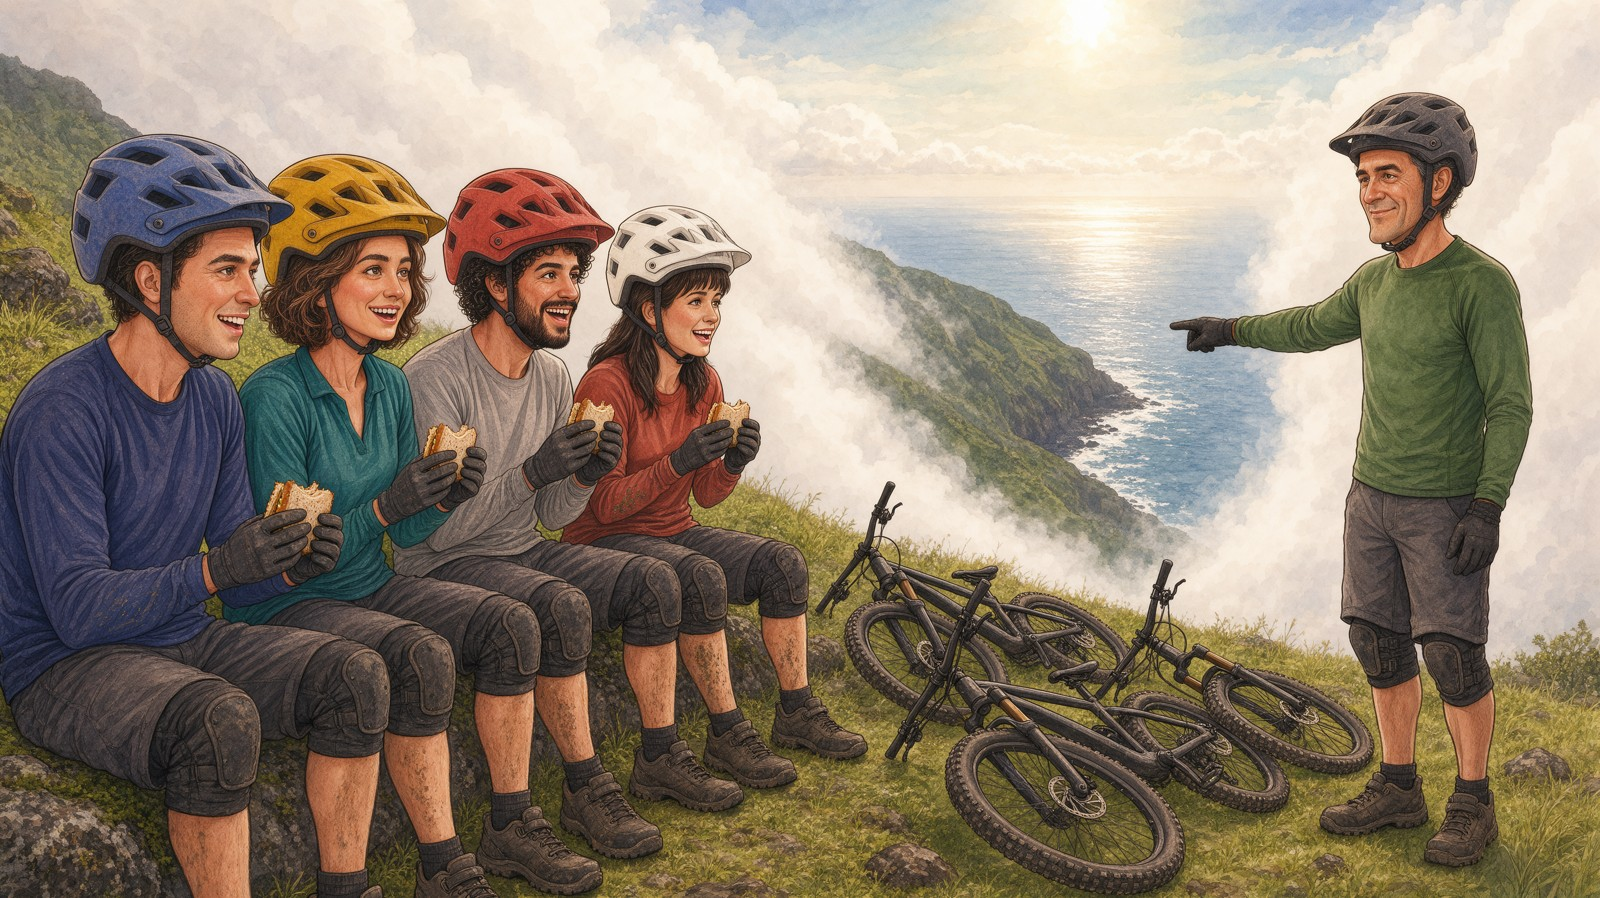
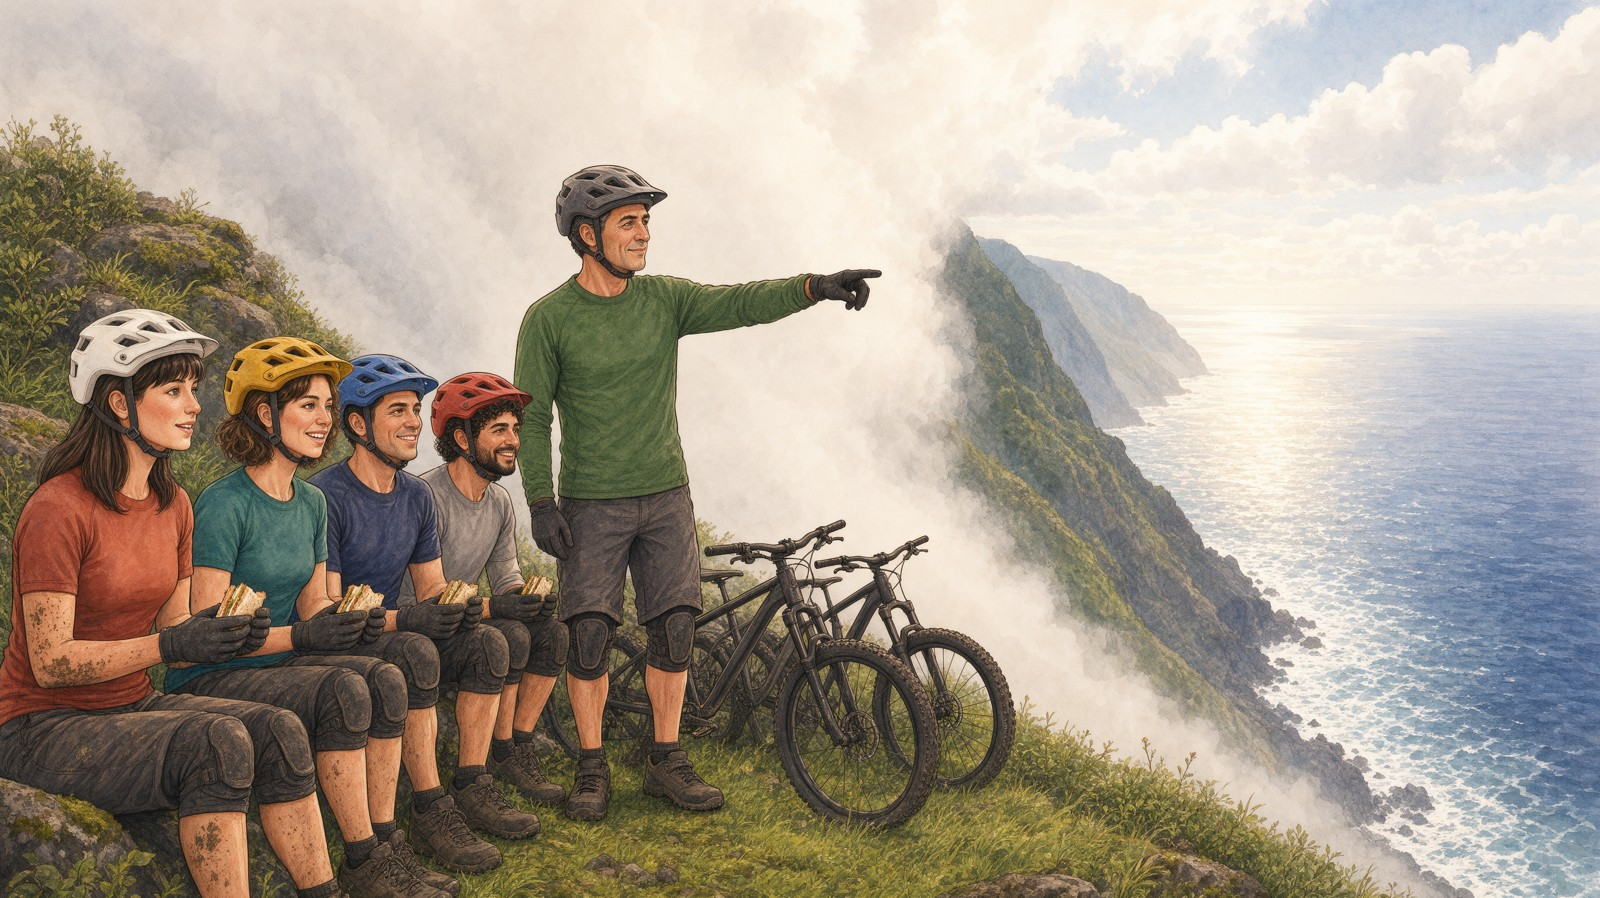
Book 20: slim helmet sheet; pages 2-7 repainted with normal-size helmets; helmet lessons in the illustrations skill
Claude-Session: https://claude.ai/code/session_01QETqfy7oCZmnPUVD333HTN

diff --git a/tools/b20/prompts20.py b/tools/b20/prompts20.py
@@ -26,15 +26,22 @@ TIAGO20 = "Tiago: Portuguese man, about 30, curly black hair, short black beard,
 RUI = ("Rui: Portuguese man about 35, lean and wiry, a narrow tanned face, clean-shaven, light-brown eyes, short neat dark-brown hair going slightly grey "
        "at the temples, small smile lines, an easy confident smile; a PE teacher who guides mountain-bike rides; " + GEAR
        + " a dark grey open-face bike helmet; his jersey is forest green.")
-HELMET = ("Every bike helmet sits LOW and SNUG on the head like a real helmet: the shell hugs the skull, down to just above the eyebrows and over the tops of the ears, "
-          "pressing the hair flat; only the ends of the hair show below the rim; the helmet is the same size on everyone and never grows to fit the hair: full hair is compressed under it; never perched on top of the hair.")
+HELMET = ("All bike helmets are exactly the SLIM helmet model on the helmet sheet: a low-profile trail mountain-bike helmet with a thin shell that follows the skull closely "
+          "like a snug cap, only a little wider than the head (about one and a quarter times the width of the face), a few small vents, a small short visor, a thin black rim just "
+          "above the eyebrows, black chin straps; the head looks almost the same size as without a helmet. The helmet is the same size on everyone and never grows to fit the hair: "
+          "full hair is compressed under it and comes out only below the rim.")
 BIKES = HELMET + " The mountain bikes are all the same model: modern matte-black hardtail mountain bikes with front suspension forks, wide knobbly tyres and flat handlebars."
 FANAL = ("Fanal in Madeira: a misty grassy upland clearing among huge ancient til trees (laurel-forest trees with massive gnarled trunks and twisting "
          "branches covered in green moss and ferns), soft white fog drifting between the trunks, damp green grass.")
-NEG = N.replace(', aged faces, wrinkles', '') + ", dog, corgi, logos, words, letters, numbers, glasses, spectacles, bun hairstyle, road bike, racing bike, lycra, full-face helmet"
-def mk(scene, refs, people, names, rui=None, neg="", light=None, think="high"):
+NEG = N.replace(', aged faces, wrinkles', '') + ", big helmet, bulky helmet, oversized helmet, tall dome helmet, thick shell, large visor, dog, corgi, logos, words, letters, numbers, glasses, spectacles, bun hairstyle, road bike, racing bike, lycra, full-face helmet"
+def mk(scene, refs, people, names, rui=None, neg="", light=None, think="high", comp=None):
     p = S if not light else S.replace("Soft natural daylight, gentle shadows.", light)
-    return dict(prompt=p + " " + faces(names, rui) + " " + " ".join(people) + " " + BIKES + " Scene: " + scene + " No text.",
+    extra = ""
+    if comp:   # full repaint that keeps an approved layout: helmet sheet + the old page as the layout to copy
+        # (giving the old page as a layout reference made Krea copy its big helmets: only the helmet sheet is passed)
+        refs = [r for r in refs if r != 'p1'] + ['helmets']
+        extra = f" Image {len(refs)} is the helmet sheet: every helmet in this picture is that slim model, at that size relative to the head."
+    return dict(prompt=p + " " + faces(names, rui) + extra + " " + " ".join(people) + " " + BIKES + " Scene: " + scene + " No text.",
                 negative_prompt=NEG + neg, image_urls=[R[r] for r in refs], aspect_ratio="16:9", resolution="2K", thinking_mode=think)
 FOG = "Soft diffuse light through white fog, gentle shadows, the colours slightly muted by the mist but the outlines clean."
 import re
@@ -48,17 +55,17 @@ P['rui'] = dict(prompt=S + " The new character is Rui, a friend of the group. " 
 P['p1'] = mk(FANAL + " Sunday morning. On the left a white van with its back doors wide open, parked on the grass; Rui (exactly the man in the third image) lifts a matte-black mountain bike out of the back of the van; three more bikes still inside, one already standing on the grass. Behind him, half in the fog, the huge mossy til trees. On the right, a little further back, Rita, Ana, João and Tiago walk towards him across the grass, already in their bike clothes, helmets in their hands. Rui, the van and the bikes large and clear in the foreground.",
     ['b1p7', 'sheet', 'rui'], [RUI, RITA20, ANA20, JOAO20, TIAGO20], ['Rita', 'Ana', 'João', 'Tiago'], rui='third', light=FOG, neg=", cows, animals, writing on the van")
 P['p2'] = mk(FANAL + " Morning, the friends standing on the grass with their bikes. In the foreground on the left, Rui (exactly the man in the third image) holds a mountain bike by its handlebar and points with one finger at the brake lever on the handlebar, explaining; the handlebar and the brake levers large and clear. On the right, close to us, Ana is doing up the chin strap of her mustard-yellow helmet with both hands, laughing, a little nervous. Rita, João and Tiago stand behind with their bikes, listening.",
-    ['b1p7', 'sheet', 'rui'], [RUI, ANA20, RITA20, JOAO20, TIAGO20], ['Ana', 'Rita', 'João', 'Tiago'], rui='third', light=FOG, neg=", cows, animals")
+    ['b1p7', 'sheet', 'rui'], [RUI, ANA20, RITA20, JOAO20, TIAGO20], ['Ana', 'Rita', 'João', 'Tiago'], rui='third', light=FOG, neg=", cows, animals", comp='c2')
 P['p3'] = mk("A narrow earth mountain-bike trail winding downhill through the laurel forest at Fanal, between huge mossy til trees, the ground full of twisting tree roots and loose grey stones; fog between the trunks. Seen from lower down the trail looking up: Tiago rides down towards us first, standing on the pedals, and Rita follows close behind him, standing on the pedals with bent arms and knees, the bike bouncing over the roots, concentrating hard. On the right at the side of the trail, Rui (exactly the man in the third image) stands beside his bike with one hand cupped at his mouth, shouting advice. The roots and stones on the trail large and clear in the foreground.",
-    ['b1p7', 'sheet', 'rui'], [TIAGO20, RITA20, RUI], ['Tiago', 'Rita'], rui='third', light=FOG, neg=", cows, animals, Ana, João")
+    ['b1p7', 'sheet', 'rui'], [TIAGO20, RITA20, RUI], ['Tiago', 'Rita'], rui='third', light=FOG, neg=", cows, animals, Ana, João", comp='c3')
 P['p4'] = mk("A muddy section of the mountain-bike trail in the laurel forest at Fanal, mossy til trees and fog, big ferns along the side of the trail. In the middle of the trail stands a calm brown cow (a Madeiran free-range cow), looking at the riders. In the foreground Rita brakes too late: the front wheel of her bike slides sideways in the brown mud and she is falling slowly to the side, onto a soft bed of large green ferns beside the trail, surprised but not hurt. Behind her, Tiago and Ana have stopped their bikes, braking, feet down. The cow, the mud, the front wheel and the ferns clearly visible.",
-    ['b1p7', 'sheet'], [RITA20, TIAGO20, ANA20], ['Rita', 'Tiago', 'Ana'], light=FOG, neg=", several cows, bull, horns, blood, injury")
+    ['b1p7', 'sheet'], [RITA20, TIAGO20, ANA20], ['Rita', 'Tiago', 'Ana'], light=FOG, neg=", several cows, bull, horns, blood, injury", comp='c4')
 P['p5'] = mk("The muddy trail in the laurel forest at Fanal, ferns and mossy til trees, fog. Rita has just stood up, her bike lying on the ferns beside her: she has brown mud on her legs, on her arms and a smear of mud on her cheek, and she holds up a handful of mud in one gloved hand, pretending to threaten Tiago, half laughing. Tiago stands in front of her, his own hand over his mouth to hide a laugh, his eyes laughing. In the background, far down the trail, the brown cow walks away between the trees. Rita's muddy legs, arms and face and Tiago's hand over his mouth large and clear.",
-    ['b1p7', 'sheet'], [RITA20, TIAGO20], ['Rita', 'Tiago'], light=FOG, neg=", blood, injury, several cows")
+    ['b1p7', 'sheet'], [RITA20, TIAGO20], ['Rita', 'Tiago'], light=FOG, neg=", blood, injury, several cows", comp='c5')
 P['p6'] = mk("The edge of the high ground above the north coast of Madeira near Fanal, at midday: the group sits on mossy rocks at the edge of a grassy slope eating sandwiches, their five bikes lying on the grass behind them. The white fog is opening like a curtain in front of them, and through the gap, far below, appear the steep green north coast of Madeira, the dark blue sea and bright sunlight shining on the water. Rui (exactly the man in the third image) stands and points at the view; Rita (with dried mud on her legs and arm), Tiago, Ana and João turn to look, amazed. The opening in the fog, the coast and the shining sea large and clear.",
-    ['b1p7', 'sheet', 'rui'], [RUI, RITA20, TIAGO20, ANA20, JOAO20], ['Rita', 'Tiago', 'Ana', 'João'], rui='third', light="Bright sunlight breaking through white fog, a gentle glow on the sea, soft shadows.", neg=", cows, animals, buildings in the foreground, road")
+    ['b1p7', 'sheet', 'rui'], [RUI, RITA20, TIAGO20, ANA20, JOAO20], ['Rita', 'Tiago', 'Ana', 'João'], rui='third', light="Bright sunlight breaking through white fog, a gentle glow on the sea, soft shadows.", neg=", cows, animals, buildings in the foreground, road", comp='c6')
 P['p7'] = mk("A forest track at the bottom of the last descent below Fanal, tall laurel trees and ferns, light fog. Tiago kneels on the track beside his bike, which stands upside down on its saddle and handlebar with the front wheel taken off; he holds the front wheel, with its new inner tube fitted, between his knees and pumps up the tyre with a small black hand pump, fast and expert. Rui (exactly the man in the third image) stands next to him with his bike, watching, arms crossed, amused and impressed; Rita (with dried mud on her legs) watches over Tiago's shoulder. The wheel, the tyre and the small pump large and clear in the foreground.",
-    ['b1p7', 'sheet', 'rui'], [TIAGO20, RUI, RITA20], ['Tiago', 'Rita'], rui='third', light=FOG, neg=", cows, animals, car, workshop, toolbox, Ana, João")
+    ['b1p7', 'sheet', 'rui'], [TIAGO20, RUI, RITA20], ['Tiago', 'Rita'], rui='third', light=FOG, neg=", cows, animals, car, workshop, toolbox, Ana, João", comp='c7')
 P['p8'] = mk("Exactly the same clearing, white van and huge mossy til trees as in the fourth image (page 1), seen from the same spot. Late afternoon on the grass beside the white van at Fanal, the huge mossy til trees behind, the fog now thin and golden. In the background João and Tiago wash the muddy bikes with a green garden hose, water spraying, and Rui (exactly the man in the third image) leans a clean bike against the van. In the foreground on the right, Ana has taken Rita a few steps aside by the arm and talks to her quietly, close, a little shy and excited; Rita, still with dried mud on her legs and a smear on her cheek, listens with wide eyes, surprised. Helmets off now. The hose, the spraying water and the two women large and clear.",
     ['b1p7', 'sheet', 'rui', 'p1'], [nohelm(x) for x in (ANA20, RITA20, JOAO20, TIAGO20, RUI)], ['Ana', 'Rita', 'João', 'Tiago'], rui='third',
     light="Warm golden late-afternoon light through thin fog, gentle long shadows.", neg=", cows, animals, writing on the van, helmets on heads")

diff --git a/skills/madeira-book-illustrations/SKILL.md b/skills/madeira-book-illustrations/SKILL.md
@@ -186,7 +186,7 @@ Download the result (`curl` the gen.krea.ai URL) and check it yourself before th
 6. **Cuttable:** go through the page's words and confirm each thing is whole, separate and big enough to cut cleanly (the Step 1 list). A thing hidden or merged now means a bad highlight later — fix it with a regional edit before approval.
 Show the user the full picture and the check image, and tell them plainly what matches and what doesn't.
 
-- **Helmets (bike, climbing, canyoning):** write in every prompt that the helmet sits low and snug like a real one — the shell hugs the skull, down to just above the eyebrows and over the tops of the ears, pressing the hair flat, only the hair ends showing below the rim. The helmet never grows to fit the hair: it is the same size on everyone (compare with a short-haired rider's helmet), and full hair is compressed under it. Krea otherwise perches helmets on top of full hair or inflates them over it (Ana's bob, Tiago's curls) so they look like they float; the user noticed in book 20. Check every helmeted head at full size. **For any book with helmets, first make a helmet sheet** (book 20: `books/20-nevoeiro/art/helmet_design.jpg`, Krea 9561d9d1): one helmet model in each rider's colour, worn by every rider at the same scale, hair compressed; pass it as a reference on every page with helmets and name the model in the prompt. Then compare all helmeted heads side by side, each scaled to the same height (`helmet_check.jpg`): the shell should be about twice the face width on everyone. A regional edit over each helmet with the sheet as the second image fixes a page without repainting it.
+- **Helmets (bike, climbing, canyoning):** first make a **helmet sheet** — one SLIM, low-profile helmet model in each rider's colour, worn by every rider at the same scale (book 20: `books/20-nevoeiro/art/helmet_design.jpg`, Krea 59c0f453; the user rejected the first, bulky sheet as "way too big"). Describe it in every prompt: a thin shell that hugs the skull like a snug cap, only about 1.25× the face width, small visor; the helmet never grows to fit the hair, full hair is compressed under it. Pass the sheet as a reference on every page with helmets. What did NOT work in book 20: regional edits cannot shrink a helmet (Krea fills the marked area, so the helmet — or a bare head — swells to fit it), and giving an old page as a layout reference makes Krea copy its big helmets. If helmets come out too big, repaint the page in full with the sheet and the text only.
 
 ## Krea cost (checked Nov 16, 2026 with `preflight: true`)
 - A krea-3 picture or regional edit at 2K costs about 130 units with `thinking_mode` "high" **and** "fast" alike, so always use "high". 1K saves only about 14% and is below the 1600×898 master size: keep 2K.

diff --git a/tools/b20/README.md b/tools/b20/README.md
@@ -6,7 +6,7 @@ Masters and Krea ids in `books/20-nevoeiro/art/` (`krea_urls.txt`); prompts in `
 Outfits: MTB jerseys — Rita terracotta + white helmet, Ana teal + mustard, João navy + blue, Tiago light grey + red,
 Rui forest green + dark grey; dark grey baggy shorts, black knee pads, black gloves; five identical matte-black hardtails.
 Fixed after review (Nov 16): p2 Ana bob, long sleeves, Rui points at the lever; p4 Rita falling; p6 long sleeves; helmets
-snug and normal-sized on p2–p6 (user: "helmet size doesn't increase, hair gets compressed"). Then every helmet on p1–p7 was repainted to one model and size from the helmet sheet `helmet_design.jpg` (check: `helmet_check.jpg`).
+snug and normal-sized on p2–p6 (user: "helmet size doesn't increase, hair gets compressed"). Helmets: the user found them too big; pages 2–7 were repainted in full with the slim helmet sheet `helmet_design.jpg` (p5 then got mud on Rita's cheek). Page 1 keeps its small helmets.
 Story: mountain biking at the Fanal trail centre (old til trees, fog, free-range cows) with Rui, João's friend, a PE
 teacher who guides mountain-bike rides. Rita falls in the mud after a cow blocks the trail; the fog lifts over the
 north coast; Tiago fixes a puncture; Ana tells Rita that João asked her to move in with him — no answer yet.
